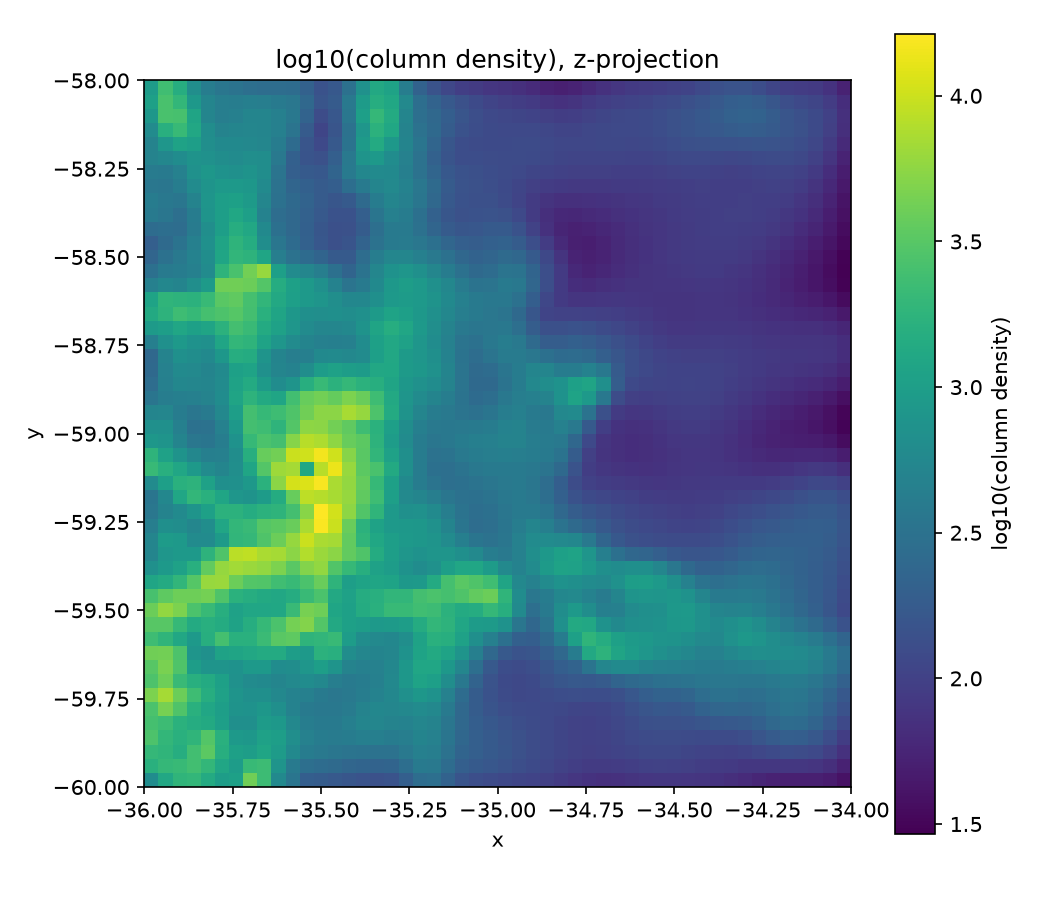
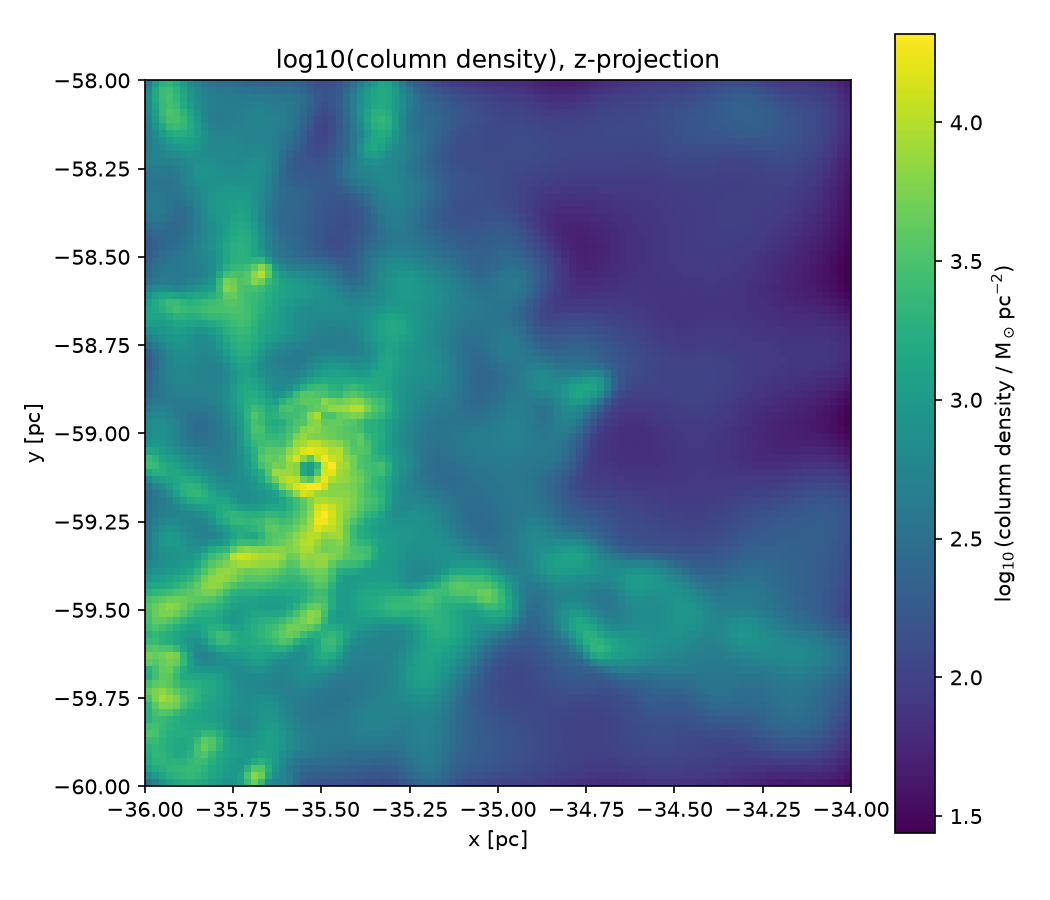
Higher-resolution worked example and unit labels in the plot script
- configs/example-cutout.json: 100 x 100 x 410 (0.02 pc cells); figure and README
  timing regenerated.
- tools/plot_cartesian_map.py: axes in pc, colourbar in Msun pc^-2 / Msun pc^-3 /
  km/s; --no-units to drop them.

diff --git a/tools/plot_cartesian_map.py b/tools/plot_cartesian_map.py
@@ -21,6 +21,9 @@ Two display modes (--mode, default "slice"):
     component along --axis, i.e. sum(rho*v)/sum(rho) per pixel (nan where a
     column has zero density everywhere).
 
+Units: the labels assume KIWI's convention for splash_ascii and phantom_binary snapshots (lengths in pc, density in
+Msun pc^-3, column density in Msun pc^-2, velocity in km/s); pass --no-units if your data are in other units.
+
 Colormap: defaults to 'coolwarm' (diverging, reads naturally around zero)
 for --field {vx,vy,vz}, and matplotlib's own default ('viridis') for
 density. Override either with --cmap.
@@ -124,6 +127,11 @@ def main():
     ap.add_argument("--vmax", type=float, default=None,
                      help="colorbar upper bound (default: auto-scaled from the plotted data). "
                           "Applied after --log if both are given.")
+    ap.add_argument("--no-units", action="store_true",
+                     help="leave units out of the labels. By default the axes are labelled in pc, density "
+                          "in Msun pc^-3 (column density in Msun pc^-2) and velocity in km/s, KIWI's "
+                          "convention for splash_ascii and phantom_binary snapshots; plain_ascii "
+                          "snapshots are in whatever units you wrote them in.")
     args = ap.parse_args()
 
     if args.vmin is not None and args.vmax is not None and args.vmin >= args.vmax:
@@ -213,10 +221,23 @@ def main():
     fig, ax = plt.subplots(figsize=(7, 6))
     im = ax.imshow(plot_data, origin="lower", extent=extent, aspect="equal", cmap=cmap,
                     vmin=args.vmin, vmax=args.vmax)
+    cbar_label = label
+    if not args.no_units:
+        xlabel, ylabel = f"{xlabel} [pc]", f"{ylabel} [pc]"
+        projected_density = args.mode == "projection" and args.field == "density"
+        if args.field == "density":
+            unit = r"\mathrm{M_\odot\,pc^{-2}}" if projected_density else r"\mathrm{M_\odot\,pc^{-3}}"
+        else:
+            unit = r"\mathrm{km\,s^{-1}}"
+        name = "column density" if projected_density else args.field
+        if args.log and args.field == "density":
+            cbar_label = rf"$\log_{{10}}$({name} / ${unit}$)"
+        else:
+            cbar_label = f"{name} [${unit}$]"
     ax.set_xlabel(xlabel)
     ax.set_ylabel(ylabel)
     ax.set_title(title.format(label=label))
-    fig.colorbar(im, ax=ax, label=label)
+    fig.colorbar(im, ax=ax, label=cbar_label)
     fig.tight_layout()
 
     if args.out:

diff --git a/README.md b/README.md
@@ -85,9 +85,9 @@ particles), and the config's domain is exactly that column:
 build/kiwi sph-to-grid configs/example-cutout.json
 ```
 
-It takes about half a minute on one core (less with OpenMP) and writes
-`runs/brick_03927_cutout/cartesian_grid.dat`, a 50 x 50 x 205 grid of density and velocity. Plot the
-column density along z with (needs `numpy` and `matplotlib`):
+It takes about 3 minutes on one core (less with OpenMP; lower `cartesian_grid.resolution_*` for a quicker, coarser
+map) and writes `runs/brick_03927_cutout/cartesian_grid.dat`, a 100 x 100 x 410 grid of density and velocity (0.02 pc
+cells). Plot the column density along z with (needs `numpy` and `matplotlib`):
 
 ```
 python3 tools/plot_cartesian_map.py runs/brick_03927_cutout/cartesian_grid.dat \
